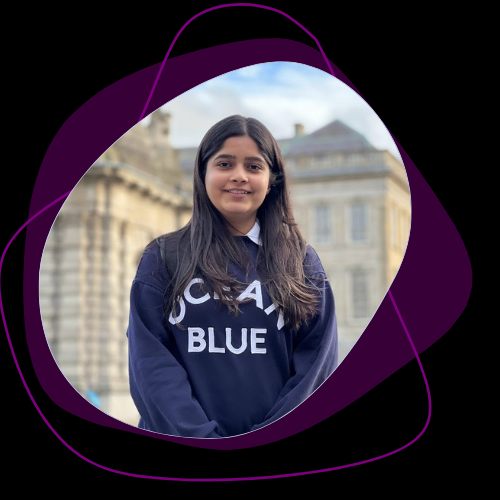
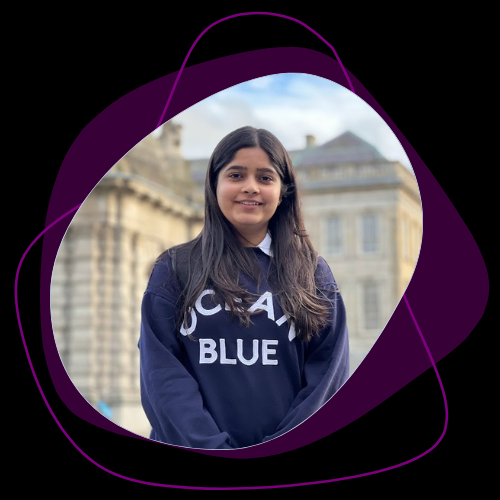
Making the home section responsive

diff --git a/src/components/HomeSection/HomeSection.css b/src/components/HomeSection/HomeSection.css
@@ -1,48 +1,104 @@
-#home-section{
-    /* height: calc(100vh - 4rem); */
+#home-section {
     height: 100vh;
     width: 100vw;
     max-width: 75rem;
     margin: 0 auto;
     overflow: hidden;
     position: relative;
+    display: flex;
+    flex-direction: column;
+    align-items: flex-start;
+    justify-content: center;
+    padding: 0 3rem;
 }
-#image{
+
+#image {
     position: absolute;
     z-index: 1;
-    right: 0;
+    right: 2rem;
     top: 6rem;
-    object-fit: cover;
-    
 }
-.Introcontent{
-    height: 100vh;
-    width: 100vw;
+
+#image img {
+    max-width: 100%;
+    width: 30rem;
+    height: auto;
+}
+
+.Introcontent {
     padding: 2rem;
-    font-size: 3rem;
+    font-size: 2.75rem;
     font-weight: 700;
     display: flex;
     flex-direction: column;
     justify-content: center;
+    align-items: flex-start;
+    text-align: left;
+    z-index: 2;
 }
-.hello{
-    font-size: 1.75rem;
+
+.hello {
+    font-size: 2.75rem;
     font-weight: 100;
 }
-.name{
+
+.name {
     color: var(--primary-color);
 }
-.para{
+
+.para {
     font-size: medium;
     font-weight: 100;
 }
-@media screen and (max-width:840px) {
-    #image{
-        right: -50vw;
+
+/* Responsive Design */
+@media screen and (max-width: 840px) {
+    #home-section {
+        flex-direction: column-reverse;
+        align-items: center;
+        justify-content: center;
+    }
+
+    #image {
+        position: static;
+        margin-top: 2rem;
+        width: 80vw;
+        /* height: 0;
+        width: 0; */
+    }
+
+    .Introcontent {
+        font-size: 1.5rem;
+        padding: 1rem;
+    }
+
+    .hello {
+        font-size: 1.5rem;
+    }
+
+    .name {
+        font-size: 1.75rem;
+    }
+
+    .para {
+        font-size: 1rem;
     }
 }
-/* @media screen and (max-width:840px) {
-    .Introcontent{
-        right: -10vw;
+
+@media screen and (max-width: 600px) {
+    .Introcontent {
+        font-size: 1.2rem;
     }
-} */
+
+    .hello {
+        font-size: 1.2rem;
+    }
+
+    .name {
+        font-size: 1.5rem;
+    }
+
+    .para {
+        font-size: 0.9rem;
+    }
+}

diff --git a/src/components/HomeSection/HomeSection.js b/src/components/HomeSection/HomeSection.js
@@ -1,39 +1,36 @@
 import './HomeSection.css';
 import React from 'react';
-import { Typewriter } from 'react-simple-typewriter'
+import { Typewriter } from 'react-simple-typewriter';
 import mee9 from '../../assets/img/mee9.png';
 
 const HomeSection = () => {
   return (
     <div id="home-section">
-        <div className='Introcontent'>
-            <span className='hello'>Hello,</span>
-            <span className='introtext'>
-              I'm &nbsp;
-              <span className='name'>
-                Ananya
-              </span> 
-              <br/> 
-              <Typewriter
-                words={['Software Developer💻;', 'Passionate Learner✨;','Front-end Developer👩💻;']}
-                loop={5}
-                cursor
-                cursorStyle='|'
-                typeSpeed={70}
-                deleteSpeed={50}
-                delaySpeed={1000}
-              />
-            </span>
-            <p className='para'>
-              {/* Find a quote to write here */}
-              {/* I am ewgfvewewvfhewgfwefgwefujwegfhj */}
-            </p>
-        </div>
-        <div id='image'>
-          <img src={mee9} alt='me'></img>
-        </div>
+      <div className='Introcontent'>
+        <span className='hello'>Hello,</span>
+        <span className='introtext'>
+          I'm &nbsp;
+          <span className='name'>Ananya</span>
+          <br/>
+          <Typewriter
+            words={['Software Developer💻;', 'Passionate Learner✨;', 'Front-end Developer👩💻;']}
+            loop={5}
+            cursor
+            cursorStyle='|'
+            typeSpeed={70}
+            deleteSpeed={50}
+            delaySpeed={1000}
+          />
+        </span>
+        <p className='para'>
+          {/* Find a quote to write here */}
+        </p>
+      </div>
+      <div id='image'>
+        <img src={mee9} alt='me'/>
+      </div>
     </div>
-  )
-}
+  );
+};
 
-export default HomeSection
+export default HomeSection;

diff --git a/src/components/AboutSection/AboutSection.js b/src/components/AboutSection/AboutSection.js
@@ -86,7 +86,7 @@ const AboutSection = () => {
       <div id='skills'>
         <h2>Skillset</h2>
         <div id='skill-content'>
-            <h3 id='language-heading'>Languages</h3>
+          <h3 id='language-heading'>Languages</h3>
           <div id='languages'>
             <SkillComponent icon={pythonicon} alt='python-icon' name='Python'/>
             <SkillComponent icon={jsicon} alt='js-icon' name='Javascript'/>

diff --git a/src/global.css b/src/global.css
@@ -1,6 +1,6 @@
 :root{
     --primary-color: #800080;
-    /* --primary-color: rgb(249, 123, 249); */
+    /* --primary-color: rgb(183, 30, 30); */
     --secondary-color:#80008030;
     /* --secondary-color: rgba(249, 123, 249, 0.303); */
   } 

diff --git a/src/components/AboutSection/AboutSection.css b/src/components/AboutSection/AboutSection.css
@@ -89,6 +89,7 @@
 } 
 #languages, #frameworks, #tools{
     display: flex;
+    flex-wrap: wrap;
     align-items:center;
     justify-content: left;
 
